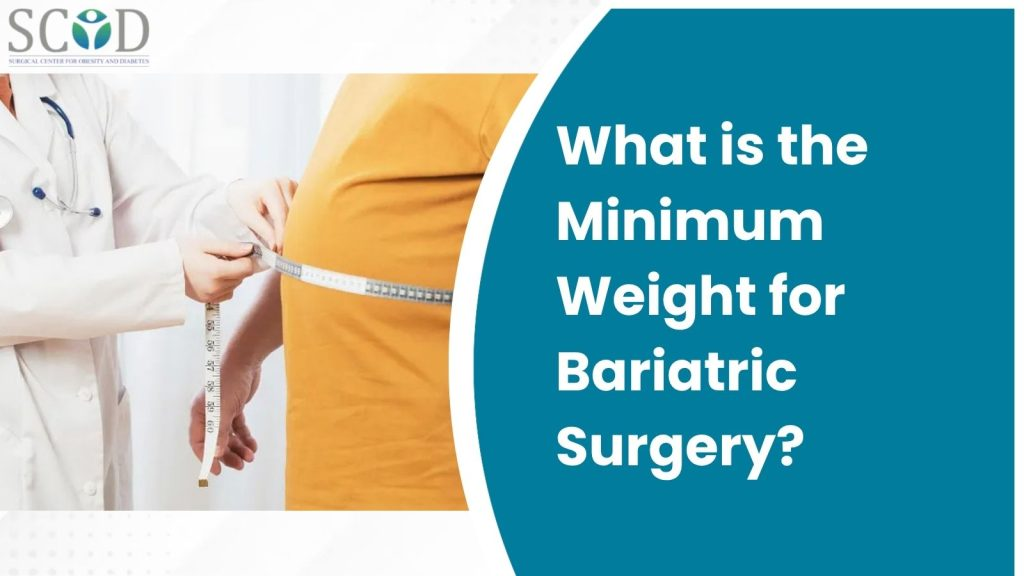
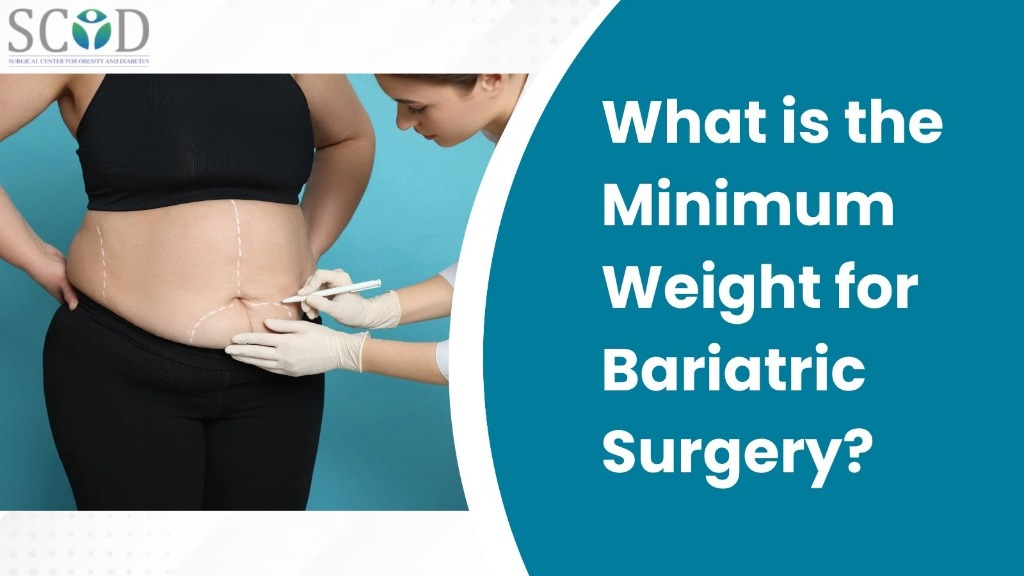
Update minimum weight blog post thumbnail image and references

diff --git a/blog/index.php b/blog/index.php
@@ -130,7 +130,7 @@ include __DIR__ . '/../includes/header.php';
             <article class="blog-card bg-white rounded-2xl overflow-hidden shadow-lg border border-gray-100 hover:shadow-xl transition-all hover:-translate-y-1" data-category="bariatric-surgery">
                 <div class="relative aspect-video overflow-hidden bg-blue-50">
                     <div class="absolute top-4 left-4 bg-white px-3 py-1 rounded-full text-xs font-bold text-gray-600 uppercase tracking-wider border shadow-sm z-10">Bariatric Surgery</div>
-                    <img src="/blog/media/images/Bariatric Surgery.webp" alt="What is the Minimum Weight for Bariatric Surgery?" class="w-full h-full object-cover hover:scale-105 transition-transform duration-500" loading="lazy">
+                    <img src="/blog/media/images/Minimum-Weight-for-Bariatric-Surgery.jpg" alt="What is the Minimum Weight for Bariatric Surgery?" class="w-full h-full object-cover hover:scale-105 transition-transform duration-500" loading="lazy">
                 </div>
                 <div class="p-6">
                     <div class="flex items-center gap-3 text-xs text-gray-400 font-semibold uppercase tracking-wider mb-4">

diff --git a/blog/what-is-the-minimum-weight-for-bariatric-surgery.php b/blog/what-is-the-minimum-weight-for-bariatric-surgery.php
@@ -35,7 +35,7 @@ include __DIR__ . '/../includes/header.php';
 
             <!-- Featured Image -->
             <figure class="mb-10">
-                <img src="/blog/media/images/Bariatric Surgery.webp" alt="What is the Minimum Weight for Bariatric Surgery?" class="w-full rounded-2xl shadow-lg">
+                <img src="/blog/media/images/Minimum-Weight-for-Bariatric-Surgery.jpg" alt="What is the Minimum Weight for Bariatric Surgery?" class="w-full rounded-2xl shadow-lg">
             </figure>
 
             <!-- Article Content -->
